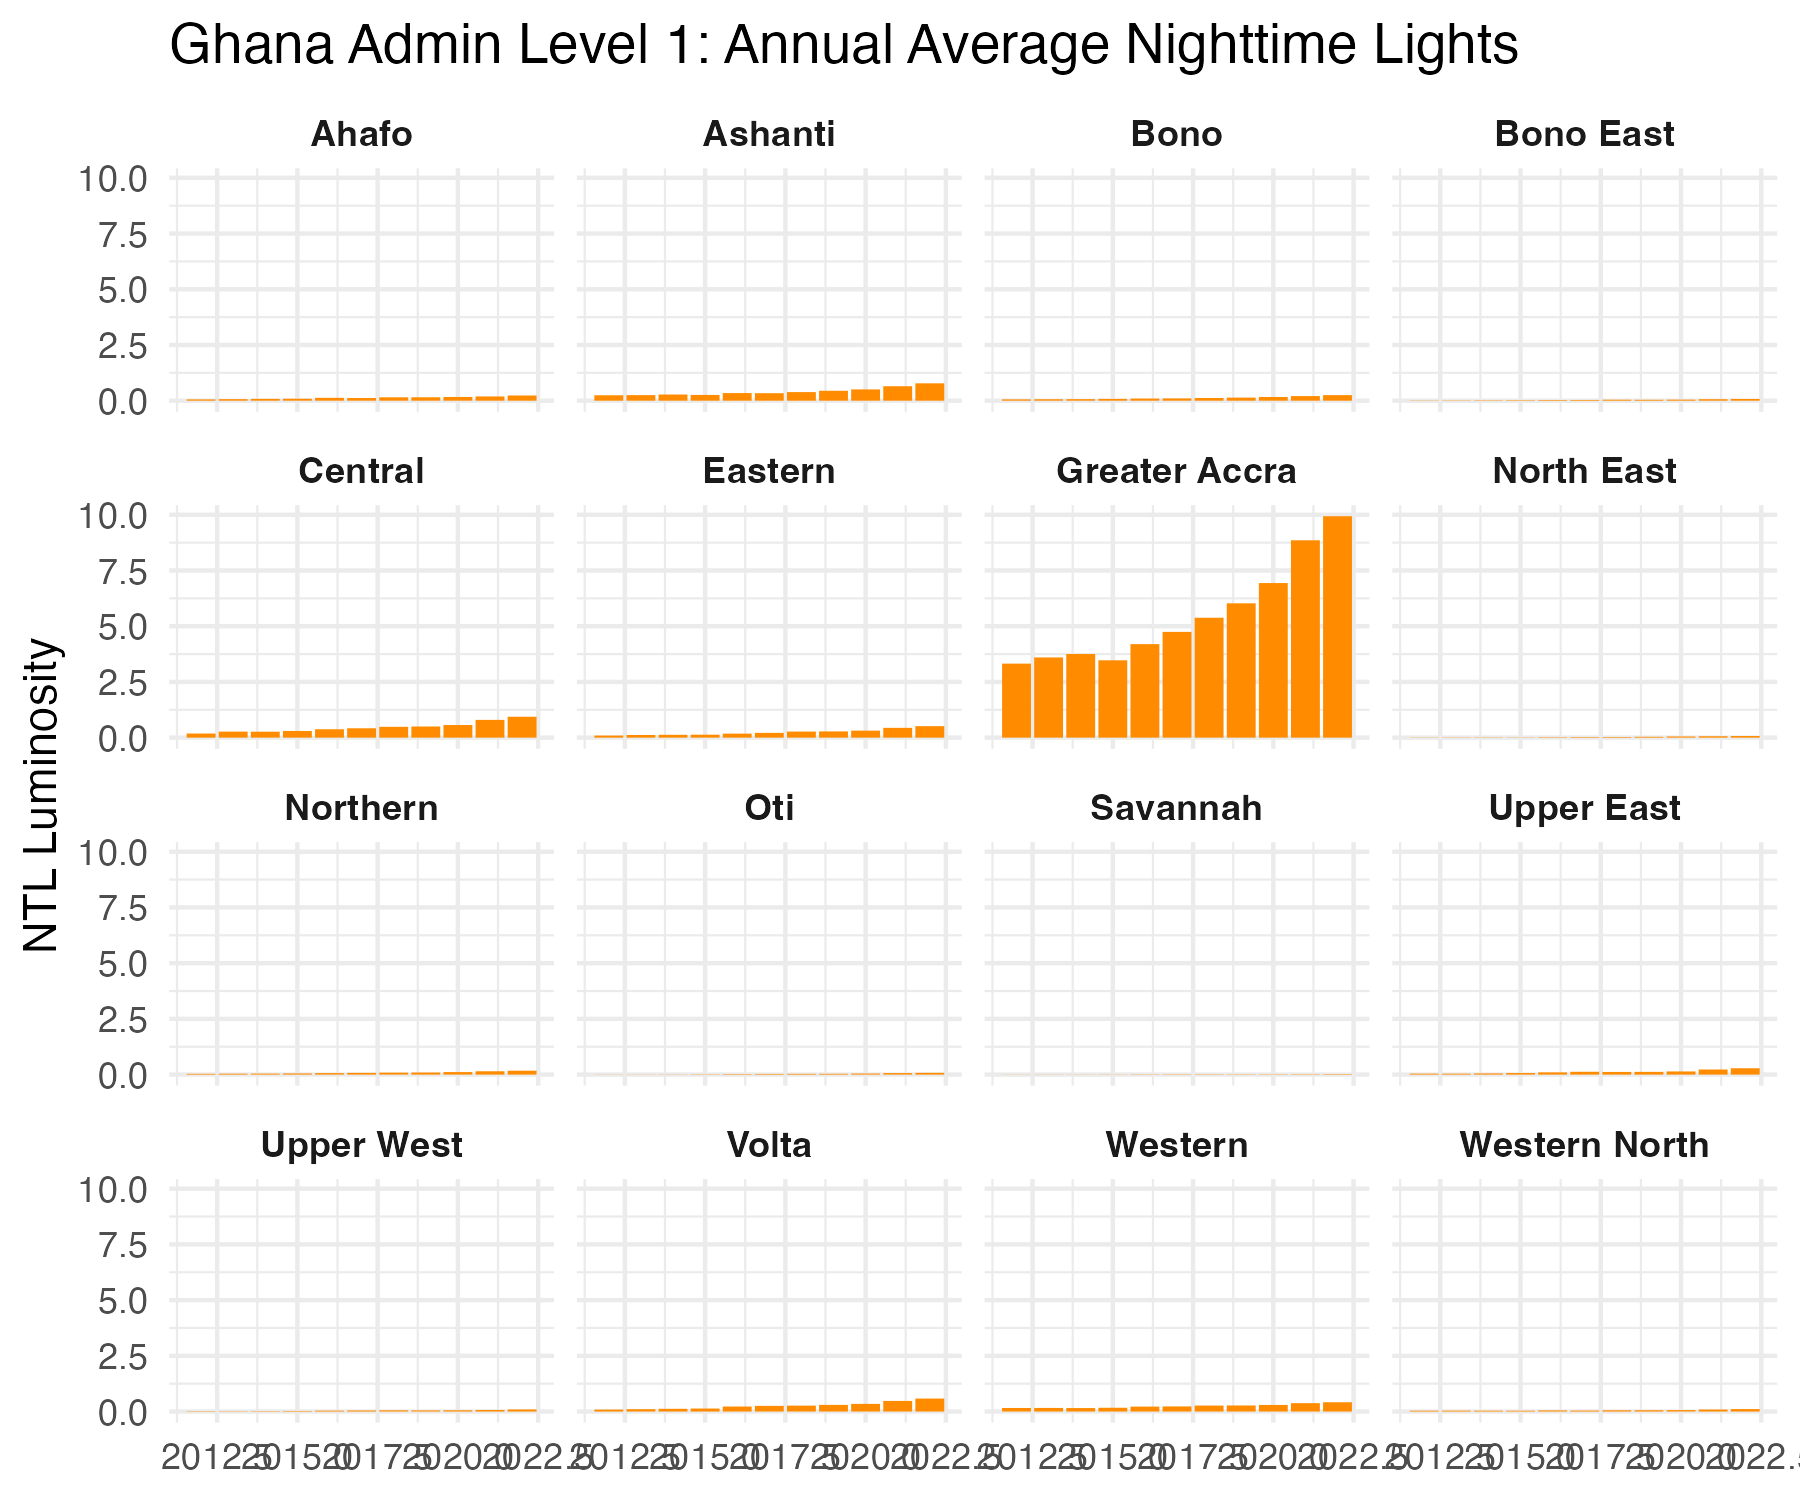
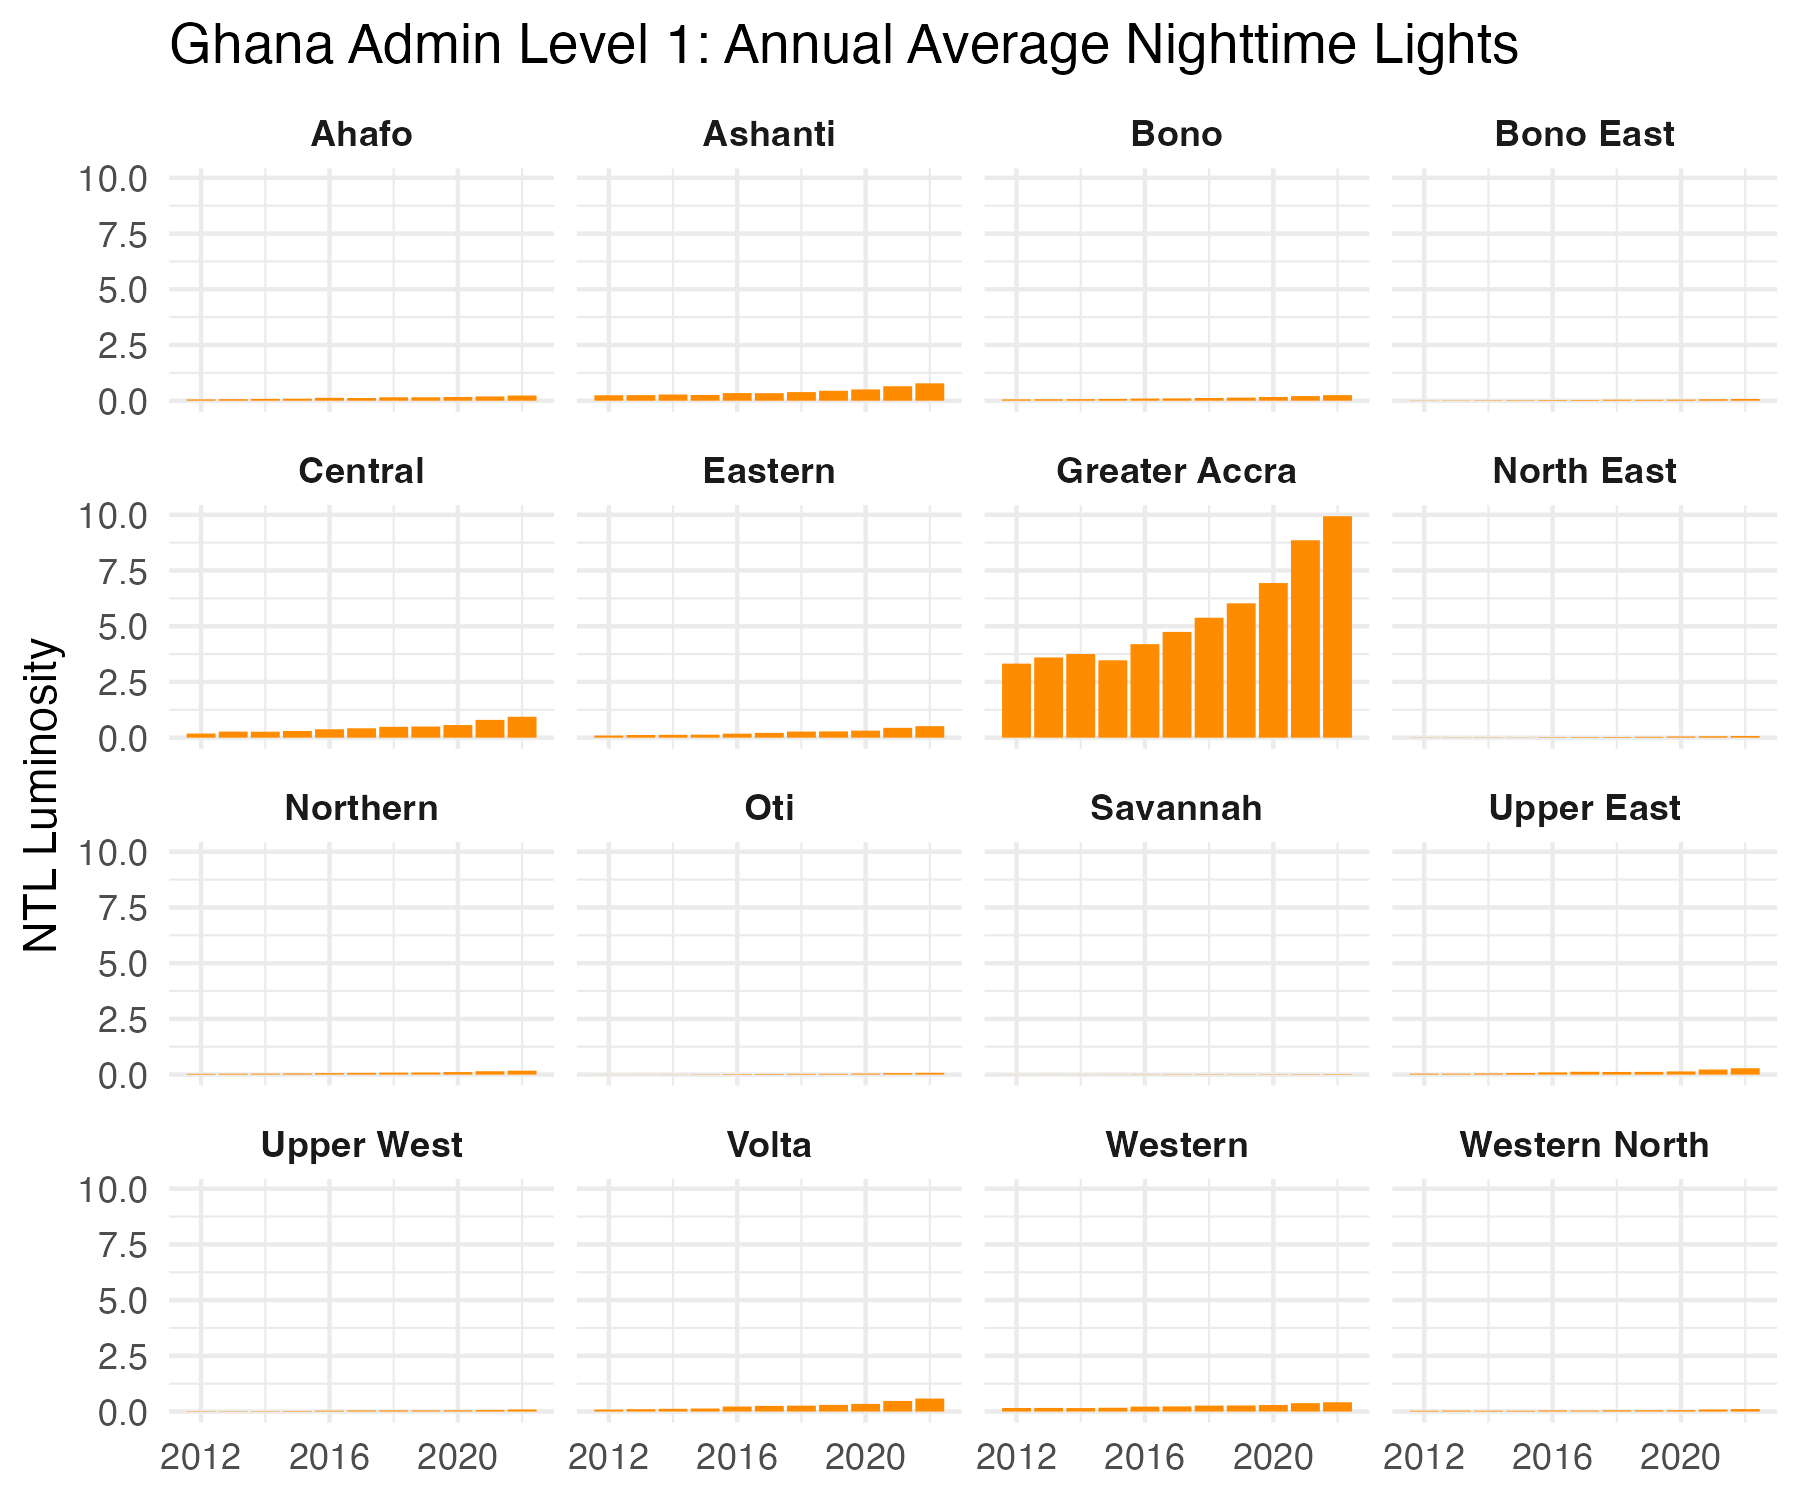
figure

Changed region(s): [[0.1244, 0.9507, 0.9956, 0.9813]]

diff --git a/README.md b/README.md
@@ -197,6 +197,8 @@ ntl_df |>
   labs(x = NULL,
        y = "NTL Luminosity",
        title = "Ghana Admin Level 1: Annual Average Nighttime Lights") +
+  scale_x_continuous(labels = seq(2012, 2022, 4),
+                     breaks = seq(2012, 2022, 4)) +
   theme_minimal() +
   theme(strip.text = element_text(face = "bold"))
 ```
